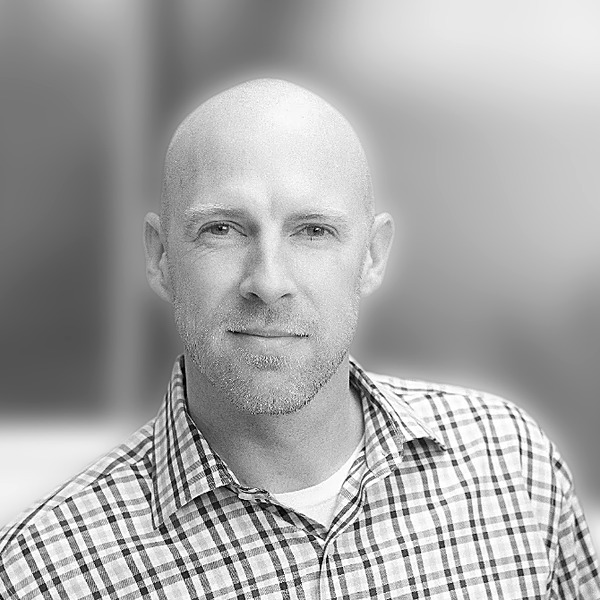
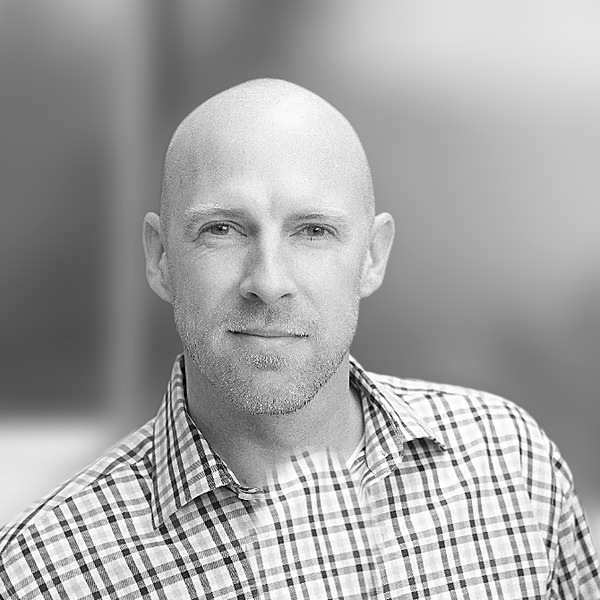
v7: Branson's headshot without the glow or undershirt; Brian on white; plumbing slide reworded
- Branson: the subject is painted out of the background before the blur,
  so his skin no longer bleeds a halo; the undershirt is patched with
  plaid from the shirt.
- Brian: cut out and set on white, like the photo the owner supplied.
- Built-for plumbing slide: 'A burst water line does not wait for a
  callback.' and 'The company that answers in less than a minute gets
  the job, and the review.'

Claude-Session: https://claude.ai/code/session_012Li8LDVWvHRkvw2Mk1N3ga

diff --git a/src/app/v7/about/page.tsx b/src/app/v7/about/page.tsx
@@ -52,7 +52,7 @@ export default function Page() {
   <p className="kicker">The team</p>
   <h2>Three people. One system.</h2>
   <div className="team">
-    <article className="card"><img className="headshot photo" src="/v2/img/brian-greenberg.jpg" alt="Brian Greenberg" /><h3>Brian Greenberg</h3><p className="role">Co-Founder and CEO</p><p>Brian has spent more than twenty years building businesses that get found online, including a fully digital insurance agency that generated $50M+ through inbound marketing. He is the author of <em>The Salesman Who Doesn&rsquo;t Sell</em> and has run local SEO for Phoenix home service companies.</p><details className="bio"><summary>Read more</summary><p>Entrepreneurship is the family trade. Brian learned it from his father, and it was everywhere around him: his grandfather ran his own business, and so did every one of his uncles. Growing up in Highland Park, Illinois, he never seriously considered working for anyone else. The University of Arizona&rsquo;s Eller College of Management gave him the formal version, entrepreneurship and marketing, sharpened by the McGuire Entrepreneurship Program. Then he settled in Scottsdale, Arizona, and got to work.</p><p>In 2003 Brian started two companies at once: True Blue Life Insurance and Wholesale Warehouse Supply, an e-commerce business. At True Blue he pioneered selling life insurance fully online, in all 50 states. No cold calls. No kitchen-table pitches. Content, search, funnels and automation did the selling, and the results followed: more than $1 million in annual premium for ten consecutive years, over $50 million in total revenue, and membership in the Million Dollar Round Table, the top 1% of financial professionals worldwide.</p><p>The inbound system that sold policies also powered Wholesale Warehouse Supply&rsquo;s online stores, and Brian has been delivering it to other businesses ever since. He built SEO Services Internet Marketing LLC, a digital marketing and SEO company, and later BJG Digital, a local services marketing agency that helped Phoenix pool service companies win their local market through local SEO, reviews and inbound funnels. He also leads Quoteplicity, quoting software for insurance agents whose funnels have generated more than 200,000 leads.</p><p>Rocket Llama Labs brings that playbook to local home services companies, run with modern AI tools so a small team delivers what used to take an agency floor. Brian&rsquo;s job as CEO is to keep the company pointed at the only thing that matters to a client: being the business people find first, and the one they call.</p><p>He is the author of <em>The Salesman Who Doesn&rsquo;t Sell: A Marketing Guide to Making Money While You Sleep</em>, with a foreword by Marques Colston, Super Bowl champion wide receiver. <a href="https://www.amazon.com/Salesman-Who-Doesnt-Sell-Marketing-ebook/dp/B078HMS1CQ" target="_blank" rel="noopener">Buy on Amazon</a> or <a href="https://www.audible.com/pd/The-Salesman-Who-Doesnt-Sell-A-Marketing-Guide-for-Making-Money-While-You-Sleep-Audiobook/B0794Q3418" target="_blank" rel="noopener">listen on Audible</a>. Featured in Forbes, Entrepreneur, Fast Company, HuffPost, Bloomberg, USA Today, Yahoo Finance, Fox, NBC and CBS.</p></details></article>
+    <article className="card"><img className="headshot photo" src="/v7/brian-greenberg.jpg" alt="Brian Greenberg" /><h3>Brian Greenberg</h3><p className="role">Co-Founder and CEO</p><p>Brian has spent more than twenty years building businesses that get found online, including a fully digital insurance agency that generated $50M+ through inbound marketing. He is the author of <em>The Salesman Who Doesn&rsquo;t Sell</em> and has run local SEO for Phoenix home service companies.</p><details className="bio"><summary>Read more</summary><p>Entrepreneurship is the family trade. Brian learned it from his father, and it was everywhere around him: his grandfather ran his own business, and so did every one of his uncles. Growing up in Highland Park, Illinois, he never seriously considered working for anyone else. The University of Arizona&rsquo;s Eller College of Management gave him the formal version, entrepreneurship and marketing, sharpened by the McGuire Entrepreneurship Program. Then he settled in Scottsdale, Arizona, and got to work.</p><p>In 2003 Brian started two companies at once: True Blue Life Insurance and Wholesale Warehouse Supply, an e-commerce business. At True Blue he pioneered selling life insurance fully online, in all 50 states. No cold calls. No kitchen-table pitches. Content, search, funnels and automation did the selling, and the results followed: more than $1 million in annual premium for ten consecutive years, over $50 million in total revenue, and membership in the Million Dollar Round Table, the top 1% of financial professionals worldwide.</p><p>The inbound system that sold policies also powered Wholesale Warehouse Supply&rsquo;s online stores, and Brian has been delivering it to other businesses ever since. He built SEO Services Internet Marketing LLC, a digital marketing and SEO company, and later BJG Digital, a local services marketing agency that helped Phoenix pool service companies win their local market through local SEO, reviews and inbound funnels. He also leads Quoteplicity, quoting software for insurance agents whose funnels have generated more than 200,000 leads.</p><p>Rocket Llama Labs brings that playbook to local home services companies, run with modern AI tools so a small team delivers what used to take an agency floor. Brian&rsquo;s job as CEO is to keep the company pointed at the only thing that matters to a client: being the business people find first, and the one they call.</p><p>He is the author of <em>The Salesman Who Doesn&rsquo;t Sell: A Marketing Guide to Making Money While You Sleep</em>, with a foreword by Marques Colston, Super Bowl champion wide receiver. <a href="https://www.amazon.com/Salesman-Who-Doesnt-Sell-Marketing-ebook/dp/B078HMS1CQ" target="_blank" rel="noopener">Buy on Amazon</a> or <a href="https://www.audible.com/pd/The-Salesman-Who-Doesnt-Sell-A-Marketing-Guide-for-Making-Money-While-You-Sleep-Audiobook/B0794Q3418" target="_blank" rel="noopener">listen on Audible</a>. Featured in Forbes, Entrepreneur, Fast Company, HuffPost, Bloomberg, USA Today, Yahoo Finance, Fox, NBC and CBS.</p></details></article>
     <article className="card"><img className="headshot photo" src="/v7/branson-cobb.jpg" alt="Branson Cobb" /><h3>Branson Cobb</h3><p className="role">President and COO</p><p>Branson helps home service companies generate more qualified leads and grow through modern marketing, after more than 23 years leading sales, business development and client strategy for some of the country&rsquo;s largest healthcare organizations.</p><details className="bio"><summary>Read more</summary><p>Before launching Rocket Llama Labs, Branson served as Market President for CBIZ&rsquo;s Arizona and California offices, where he led market growth, business operations and client retention initiatives. Prior to CBIZ, he spent more than five years with Aetna, leading business development for Arizona&rsquo;s Public and Labor segment and helping organizations develop strategic growth initiatives.</p><p>Branson began his career at Cigna, where he spent 13 years advancing from Medical and Dental Underwriter to Senior Account Executive. His background in underwriting, analytics, account management and sales gave him a unique ability to connect financial insights with business strategy, an approach he continues to bring to every client relationship today.</p><p>At Rocket Llama Labs, Branson believes great marketing is not about chasing trends. It is about building systems that consistently generate leads, drive revenue and help business owners focus on what they do best. His forward-looking approach combines data-driven decision-making with innovative marketing strategies designed specifically for home service businesses.</p><p>Outside of work, Branson enjoys traveling, scuba diving, skiing and fishing with his dad. He earned his Bachelor of Science in Finance from the University of Arizona.</p></details></article>
     <article className="card"><div className="headshot"><span>Photo</span></div><h3>Madison</h3><p className="role">Creative digital designer and digital architect</p><p>Branding, websites and AI-powered digital solutions, built to give a business a strong and memorable online presence.</p><details className="bio"><summary>Read more</summary><p>Madison is a creative digital designer, branding specialist, AI content creator and digital architecture expert with a passion for transforming innovative ideas into meaningful digital experiences. With experience in website design, brand development, artificial intelligence and digital strategy, she specializes in creating visually compelling, functional and user-friendly solutions that help businesses establish a strong and memorable online presence.</p><p>Her expertise combines creative design with emerging technology, allowing her to develop cohesive brand identities, modern websites and AI-powered digital solutions tailored to each client&rsquo;s unique vision. As a digital architect, Madison focuses on the balance between aesthetics, functionality and strategy, ensuring every project is thoughtfully designed to enhance user experience, strengthen brand recognition and support long-term growth.</p><p>Driven by curiosity and a passion for innovation, Madison enjoys exploring new technologies, creative trends and opportunities to push the boundaries of traditional digital design. She values attention to detail, strategic thinking and bringing fresh perspectives to every project.</p><p>Outside of her professional work, Madison enjoys working out, reading and traveling. She has a strong appreciation for personal growth, wellness and discovering new places and cultures. These interests inspire her creativity, broaden her perspective and encourage her to continuously learn, evolve and approach both life and work with an open mind.</p></details></article>
   </div>

diff --git a/src/components/v7/behavior/valley.js b/src/components/v7/behavior/valley.js
@@ -7,7 +7,7 @@ export function mountValley() {
   var MON = ['J','F','M','A','M','J','J','A','S','O','N','D'];
   var TRADES = {
     'HVAC': { kw: ['ac repair phoenix','emergency ac repair near me','hvac company chandler','ac replacement cost mesa','heat pump install gilbert'], season: 'June to September', seasonP: 'Peak cooling season in the Valley. Local Services Ads and search budgets rise with the temperature and come down in October.', curve: [40,38,45,55,75,100,100,95,80,55,40,42], job: '$6,800', jobP: 'Illustrative average for a replacement in the Phoenix market. The CRM records the real number per job, and that sets next month’s spend.', photo: P.hvac, h2: 'When the AC dies in July, the first company to answer gets the job.', p: 'Every new lead gets a text and an email in under a minute, in your voice, even when your techs are on a roof in 112°. Your phone will still ring first and if nobody can pick up, the AI books an appointment.' },
-    'Plumbing': { kw: ['plumber near me','water heater replacement phoenix','slab leak repair chandler','drain cleaning scottsdale','emergency plumber gilbert'], season: 'All year, spikes in winter', seasonP: 'Water heaters fail when the first cold snap hits. Budgets hold steady with a December and January lift.', curve: [85,80,70,65,65,70,75,75,70,70,85,100], job: '$1,900', jobP: 'Illustrative average across repairs and water heater replacements. The CRM records the real number per job.', photo: P.plumbing, h2: 'A burst line does not wait for a callback.', p: 'The homeowner is standing in water. The company that answers in 38 seconds and books the truck gets the job, and the review.' },
+    'Plumbing': { kw: ['plumber near me','water heater replacement phoenix','slab leak repair chandler','drain cleaning scottsdale','emergency plumber gilbert'], season: 'All year, spikes in winter', seasonP: 'Water heaters fail when the first cold snap hits. Budgets hold steady with a December and January lift.', curve: [85,80,70,65,65,70,75,75,70,70,85,100], job: '$1,900', jobP: 'Illustrative average across repairs and water heater replacements. The CRM records the real number per job.', photo: P.plumbing, h2: 'A burst water line does not wait for a callback.', p: 'The homeowner is standing in water. The company that answers in less than a minute gets the job, and the review.' },
     'Electrical': { kw: ['electrician near me','ev charger installation phoenix','panel upgrade scottsdale','electrician mesa az','ceiling fan install gilbert'], season: 'Spring, plus EV demand all year', seasonP: 'Panel upgrades and EV chargers run steadily. Monsoon season brings surge and outage calls in July and August.', curve: [60,62,75,80,78,70,90,92,70,65,60,58], job: '$2,400', jobP: 'Illustrative average across panel upgrades, EV chargers and repairs.', photo: P.electrical, h2: 'The homeowner wants a charger installed before the car arrives Friday.', p: 'They searched, they asked ChatGPT, they called two companies. The one with the structured site and the 38-second reply gets the Friday slot.' },
     'Roofing': { kw: ['roof repair phoenix','roofing company near me','monsoon roof damage mesa','tile roof replacement scottsdale','roof inspection chandler'], season: 'July to September, after monsoon', seasonP: 'Monsoon damage drives the busiest weeks of the year. Budgets rise in July and the review pipeline runs hot through September.', curve: [45,45,55,60,55,60,100,100,90,65,50,45], job: '$14,500', jobP: 'Illustrative average for a replacement. Repairs are smaller and more frequent.', photo: P.roofing, h2: 'After the monsoon, every roofer in the Valley is busy. The first one to answer wins.', p: 'Storm season is a race. Tracked numbers, an AI receptionist and a text in under a minute mean the inspection is booked before the competitor hears the voicemail.' },
     'Garage door': { kw: ['garage door repair near me','garage door spring replacement phoenix','garage door opener install mesa','garage door company chandler'], season: 'All year', seasonP: 'Springs break on their own schedule. Spend stays level with a small lift around the holidays.', curve: [70,70,70,68,70,72,70,70,70,72,80,85], job: '$900', jobP: 'Illustrative average across spring, opener and panel jobs.', photo: P.door, h2: 'The car is stuck in the garage. They are calling right now.', p: 'Same-day is the whole sale. Answer first, book the slot, send the text with the tech’s name.' },

diff --git a/scripts/make-v3.py b/scripts/make-v3.py
@@ -535,7 +535,7 @@ def write_v7_about():
         '  <p className="kicker">The team</p>\n'
         '  <h2>Three people. One system.</h2>\n'
         '  <div className="team">\n'
-        '    <article className="card"><img className="headshot photo" src="/v2/img/brian-greenberg.jpg" alt="Brian Greenberg" /><h3>Brian Greenberg</h3><p className="role">Co-Founder and CEO</p>'
+        '    <article className="card"><img className="headshot photo" src="/v7/brian-greenberg.jpg" alt="Brian Greenberg" /><h3>Brian Greenberg</h3><p className="role">Co-Founder and CEO</p>'
         '<p>Brian has spent more than twenty years building businesses that get found online, including a fully digital insurance agency that generated $50M+ through inbound marketing. He is the author of <em>The Salesman Who Doesn&rsquo;t Sell</em> and has run local SEO for Phoenix home service companies.</p>'
         '<details className="bio"><summary>Read more</summary>'
         '<p>Entrepreneurship is the family trade. Brian learned it from his father, and it was everywhere around him: his grandfather ran his own business, and so did every one of his uncles. Growing up in Highland Park, Illinois, he never seriously considered working for anyone else. The University of Arizona&rsquo;s Eller College of Management gave him the formal version, entrepreneurship and marketing, sharpened by the McGuire Entrepreneurship Program. Then he settled in Scottsdale, Arizona, and got to work.</p>'
